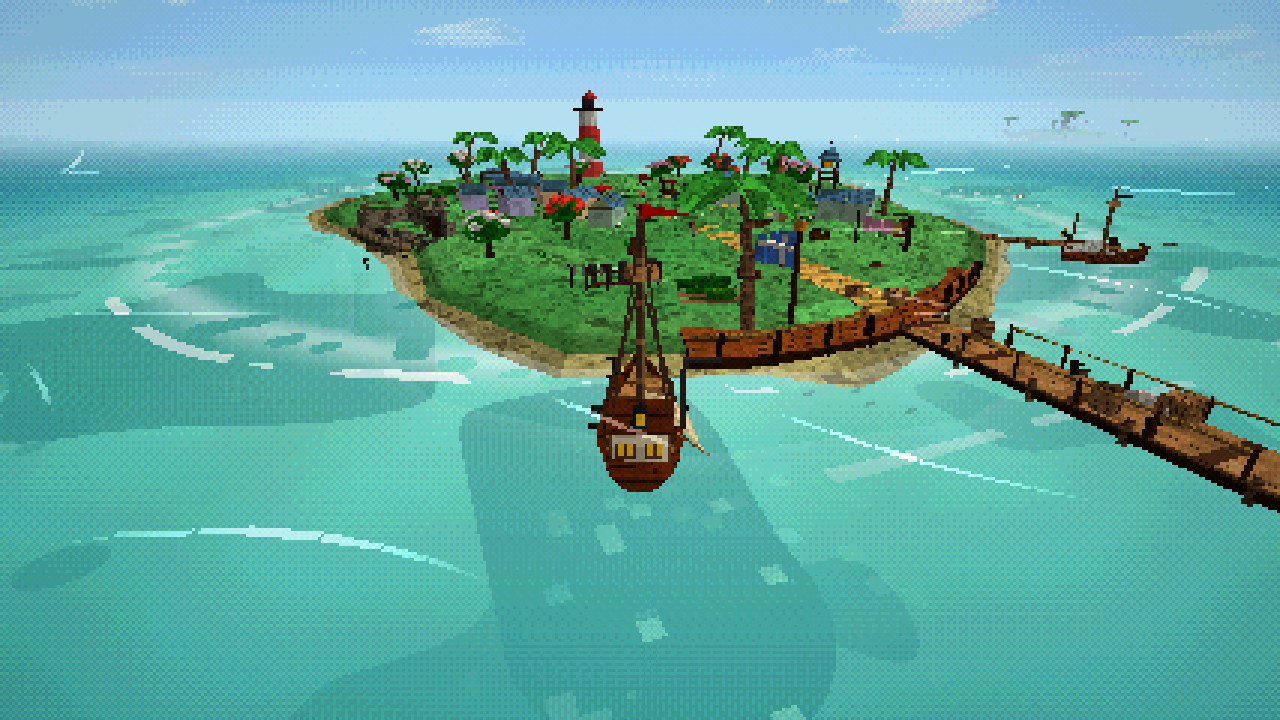
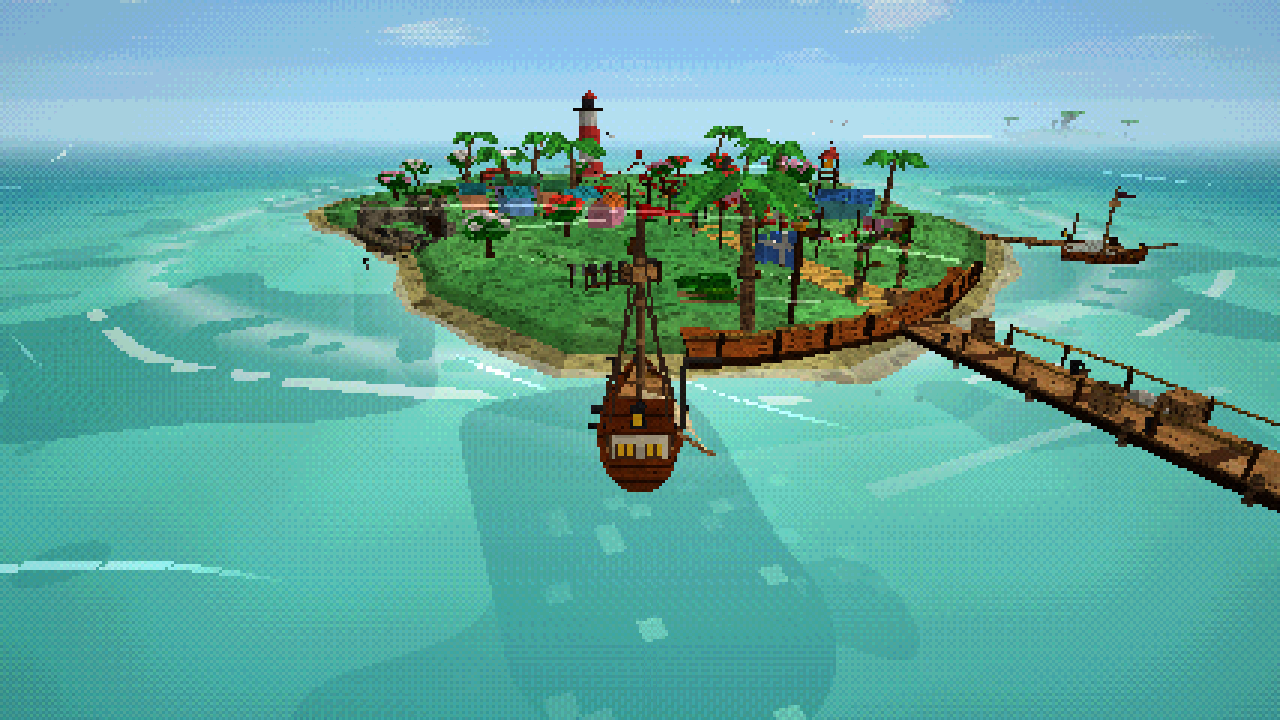
Tama: brighter chattel kit (own paints, roofs, doors, flower boxes, pots), bunting over the street and square, flower arch, more lamps
Claude-Session: https://claude.ai/code/session_01P2UrDt86h8rv7dmf7DEkc9

diff --git a/src/world.js b/src/world.js
@@ -13,7 +13,7 @@ import { dreadAtDistance } from './palette.js';
 import { makeName, makePuzzle } from './lore.js';
 import { FRUITS, fruitOf } from './fruit.js';
 import { arcIdOf, ARCS } from './harbourlife.js';
-import { harbourKit, familyHouse, familyBuilding } from './housefamilies.js';
+import { harbourKit, familyHouse, familyBuilding, tamaKit } from './housefamilies.js';
 
 import { forcedCells, shapeLandmark, cutShore, lmHeight, lmColor, lmDecor, LM_DARK } from './landmarks.js';
 export const CELL = 110;
@@ -390,7 +390,7 @@ export function palm(A, B, D, x, y, z, rng, s = 1) {
 const HOUSE_FAMILY = (() => { try { const q = typeof window !== 'undefined' && window.__BUILD !== 'full' && new URLSearchParams(location.search).get('houses'); return ['chattel', 'gable', 'bermuda', 'stilt'].includes(q) ? q : 'region'; } catch (e) { return 'region'; } })();
 const FAMILY_BUILDINGS = new Set(['tavern', 'church', 'belltower', 'warehouse']);
 const REGION_FAMILY = { home: 'chattel', free: 'chattel', crown: 'gable', lantern: 'bermuda', reef: 'stilt', drowned: 'stilt' };
-const kitFor = (d) => harbourKit(HOUSE_FAMILY === 'region' ? REGION_FAMILY[d.region] || 'chattel' : HOUSE_FAMILY, d.seed);
+const kitFor = (d) => (d.id === '0,-1' && HOUSE_FAMILY === 'region' ? tamaKit() : null) || harbourKit(HOUSE_FAMILY === 'region' ? REGION_FAMILY[d.region] || 'chattel' : HOUSE_FAMILY, d.seed);
 function familyHooks(kind) {
   return {
     bell(A, y, s = 1) {
@@ -1267,8 +1267,31 @@ function tamaPolish(S, look, houses) {
   for (const sx of [-1.38, 1.38]) for (let z = R * 1.02; z < z1 - 1; z += 2.6) { A.box(sx, 0.84, z, 0.14, 1.0, 0.14, '#6b4a2e', TILE.bark); if (z + 2.6 < z1 - 1) A.box(sx, 1.66, z + 1.3, 0.11, 0.11, 2.6, '#c8b080', TILE.rope); }
   A.pop();
   // lamps
-  const lamps = [[rP + 1.5, 1]];
-  for (const [s, side] of lamps) { const o = 1.8, x = ax * s - az * o * side, z = az * s + ax * o * side; lampPost(A, x, g(x, z) - 0.05, z, Math.atan2(-az * side, ax * side) - Math.PI / 2); }
+  const lamps = [[rP + 1.5, 1], [rP + 7, -1], [rP + 12.5, 1]].filter(([s]) => s < R * tq - 1.5);
+  for (const [s, side] of lamps) { const o = 1.8, x = ax * s - az * o * side, z = az * s + ax * o * side; if (s > rP + 2 && nearHouse(x, z, 2.2)) continue; lampPost(A, x, g(x, z) - 0.05, z, Math.atan2(-az * side, ax * side) - Math.PI / 2); }
+  { // a welcome (owner, 2026-11-28: "more colourful and welcoming... a feel-good starter town"): bunting over the street and round the square,
+    // a flower arch where the street meets the landing. The flags and blooms are the bright mood's (B): they are gone when the town goes dark.
+    const at = (s, o) => [ax * s - az * o, az * s + ax * o];
+    for (let s = rP + 3.5, k = 0; s < R * tq - 2.5; s += 5, k++) {   // strings across the street
+      const [x0, z0] = at(s, -2.5), [x1, z1] = at(s, 2.5); if (nearHouse(x0, z0, 2.0) || nearHouse(x1, z1, 2.0)) continue;
+      const y0 = g(x0, z0) - 0.05, y1 = g(x1, z1) - 0.05;
+      B.box(x0, y0, z0, 0.14, 3.6, 0.14, '#6b4a2e', TILE.bark); B.box(x1, y1, z1, 0.14, 3.6, 0.14, '#6b4a2e', TILE.bark);
+      flagLine(B, [x0, y0 + 3.5, z0], [x1, y1 + 3.5, z1], k * 2);
+    }
+    B.box(0, H - 0.2, 0, 0.2, 5.0, 0.2, '#f4f0e6', TILE.bark); B.box(0, H + 4.8, 0, 0.36, 0.36, 0.36, '#f0c030', TILE.flag);   // the square's tall pole, and a canopy of strings from it
+    for (let i = 0; i < 6; i++) {
+      const a = dockTh + Math.PI / 6 + i * Math.PI / 3, x = Math.cos(a) * (rP + 0.6), z = Math.sin(a) * (rP + 0.6);
+      if (nearHouse(x, z, 1.8)) continue;
+      B.box(x, g(x, z) - 0.05, z, 0.12, 2.9, 0.12, '#6b4a2e', TILE.bark); flagLine(B, [0, H + 4.7, 0], [x, g(x, z) + 2.8, z], i * 3);
+    }
+    { const s = R * tq - 0.8, ry = Math.PI / 2 - dockTh, [x, z] = at(s, 0), y = g(x, z) - 0.05;   // the arch: two posts, a curved top, bougainvillea
+      A.push(x, y, z, ry); for (const o of [-1.5, 1.5]) A.box(o, 0, 0, 0.22, 2.9, 0.22, '#f4f0e6', TILE.planks);
+      for (let i = 0; i < 7; i++) { const t = i / 6, ox = -1.5 + t * 3, oy = 2.9 + Math.sin(t * Math.PI) * 0.6; A.box(ox, oy, 0, 0.55, 0.16, 0.22, '#f4f0e6', TILE.planks); } A.pop();
+      B.push(x, y, z, ry);
+      for (let i = 0; i < 9; i++) { const t = i / 8, ox = -1.5 + t * 3, oy = 3.0 + Math.sin(t * Math.PI) * 0.6; B.blob(ox, oy + 0.15, 0, 0.36, 0.26, 0.3, i % 3 === 1 ? '#3f8a38' : i % 2 ? '#e8407a' : '#c83a8a', TILE.leaf, 0.25, i); }
+      for (const o of [-1.5, 1.5]) for (let j = 0; j < 3; j++) B.blob(o + (j % 2 ? 0.12 : -0.12), 0.6 + j * 0.8, 0.05, 0.26, 0.3, 0.24, j % 2 ? '#e8407a' : '#3f8a38', TILE.leaf, 0.25, j + 4);
+      B.pop(); }
+  }
   // free ground: grass tufts and flowers where nothing stands
   const free = (x, z) => Math.hypot(x, z) > rP + 1.2 && !nearHouse(x, z, 3.6) && Math.abs(angleDiff(Math.atan2(z, x), dockTh)) * Math.hypot(x, z) > 2.8;
   const tuftCols = ['#3f8a38', '#5aa844', '#4a9a40'];

diff --git a/src/housefamilies.js b/src/housefamilies.js
@@ -34,6 +34,17 @@ export function harbourKit(fam, seed) {
   const k = (Math.abs(seed) % 1000) / 1000;
   return { fam, walls: pick(P.walls, k), roof: pick(P.roofs, (k * 7.3) % 1), trim: pick(P.trims, (k * 3.1) % 1) };
 }
+/** Tama's own kit (owner, 2026-11-28: "make Tama look more colourful and welcoming... a feel-good starter town"): the brightest chattel
+ *  paints, each house its own wall and roof, white fretwork, doors in a colour of their own, flower boxes and pots (cheer) */
+export function tamaKit() {
+  return { fam: 'chattel', walls: ['#f4a0b8', '#6ad0d8', '#f8d860', '#9ae0a0', '#f8a878', '#c8a8f0', '#80b8f0'], roof: '#d8483a',
+    roofs: ['#d8483a', '#2f9aa8', '#e87a3a', '#3c78c8', '#4aa86a'], trim: '#fbf8f0', doors: ['#2f7ad0', '#d83a5a', '#f0b030', '#2a9a7a', '#8a4ac8'], cheer: true };
+}
+const BLOOMS = ['#e8407a', '#f0c030', '#f4f0e8', '#e85a3a', '#c078e0'];
+function cheer(A, K, v, x, y, z, w) {   // a flower box under a window: a painted trough and blooms
+  A.box(x, y, z, w, 0.16, 0.24, pick(K.doors || [K.trim], v(8)), TILE.planks);
+  for (let i = 0; i < 3; i++) A.blob(x + (i - 1) * w * 0.32, y + 0.2, z, 0.14, 0.11, 0.1, i === 1 ? '#4a8a38' : pick(BLOOMS, v(9 + i)), TILE.white, 0.1, i);
+}
 /** build one house of the harbour's family in the house's own frame (front +z, ground y 0); x, z its place (for its own variety) */
 export function familyHouse(A, kit, x, z, big = false) {
   const v = (s) => h01(x, z, s), wall = pick(kit.walls, v(1)), s = big ? 1.25 : 1;
@@ -41,24 +52,28 @@ export function familyHouse(A, kit, x, z, big = false) {
 }
 
 function chattel(A, K, wall, v, s) {
-  const w = 2.3 * s, d = 2.5 * s, h = 1.55 * s, base = 0.32, T = K.trim, two = v(2) < 0.5;
+  const w = 2.3 * s, d = 2.5 * s, h = 1.55 * s, base = 0.32, T = K.trim, two = v(2) < 0.5, roof = K.roofs ? pick(K.roofs, v(5)) : K.roof;
   const unit = (z0, ww, dd) => {
     A.box(0, base, z0, ww, h, dd, wall, TILE.white, TILE.white);
     for (let i = 1; i < 5; i++) A.box(0, base + i * h / 5, z0 + dd / 2 + 0.01, ww, 0.03, 0.02, shade(wall), TILE.white);   // board lines, a little darker than the paint
-    A.gable(0, base + h, z0, ww + 0.3, 1.05 * s, dd + 0.25, K.roof, TILE.roof, wall);
+    A.gable(0, base + h, z0, ww + 0.3, 1.05 * s, dd + 0.25, roof, TILE.roof, wall);
     A.box(0, base + h - 0.1, z0 + dd / 2 + 0.06, ww + 0.2, 0.12, 0.06, T, TILE.planks);   // fretwork band under the eaves
   };
   for (const [cx, cz] of [[-1, -1], [1, -1], [-1, 1], [1, 1]]) A.box(cx * (w / 2 - 0.15), 0, cz * (d / 2 - 0.15), 0.32, base, 0.32, '#8a857c', TILE.stone);   // the stone blocks
   unit(0, w, d);
   if (two) unit(-d * 0.95, w * 0.92, d * 0.9);   // a second unit behind, as the family grew
-  A.box(0, base, d / 2 + 0.02, 0.62, 1.4, 0.06, T, TILE.planks); A.box(0, base, d / 2 + 0.05, 0.5, 1.32, 0.05, '#5a3e2c', TILE.planks);   // the door, framed
+  A.box(0, base, d / 2 + 0.02, 0.62, 1.4, 0.06, T, TILE.planks); A.box(0, base, d / 2 + 0.05, 0.5, 1.32, 0.05, K.doors ? pick(K.doors, v(6)) : '#5a3e2c', TILE.planks);   // the door, framed
   const open = v(3) < 0.5;
   for (const sx of [-1, 1]) {   // jalousie shutters either side
     A.box(sx * w * 0.3, base + 0.55, d / 2 + 0.04, 0.46, 0.62, 0.05, open ? '#2a2a34' : T, TILE.planks);
     if (open) for (const o of [-1, 1]) A.box(sx * w * 0.3 + o * 0.36, base + 0.55, d / 2 + 0.08, 0.22, 0.62, 0.04, T, TILE.planks);
   }
   A.box(0, 0, d / 2 + 0.3, 0.8, base, 0.5, '#9a958a', TILE.stone);   // the steps
-  if (v(4) < 0.4) { A.push(0, base + 1.55, d / 2 + 0.3, 0, 1, 1, 1, 0.35, 0); A.box(0, 0, 0, 1.0, 0.07, 0.6, K.roof, TILE.roof); A.pop(); }   // a hood over the door
+  if (v(4) < (K.cheer ? 0.7 : 0.4)) { A.push(0, base + 1.55, d / 2 + 0.3, 0, 1, 1, 1, 0.35, 0); A.box(0, 0, 0, 1.0, 0.07, 0.6, roof, TILE.roof); A.pop(); }   // a hood over the door
+  if (K.cheer) {   // flower boxes under both windows, a pot either side of the steps
+    for (const sx of [-1, 1]) cheer(A, K, (k) => v(k + sx * 3), sx * w * 0.3, base + 0.38, d / 2 + 0.14, 0.56);
+    for (const sx of [-1, 1]) { A.cyl(sx * 0.62, 0, d / 2 + 0.45, 0.17, 0.13, 0.3, 6, '#c8643a', TILE.stone, true); A.blob(sx * 0.62, 0.42, d / 2 + 0.45, 0.22, 0.18, 0.22, '#3f8a38', TILE.leaf, 0.2, 3 + sx); A.blob(sx * 0.62 + 0.08, 0.55, d / 2 + 0.5, 0.09, 0.09, 0.09, pick(BLOOMS, v(12 + sx)), TILE.white, 0.1, 1); }
+  }
 }
 
 function gable(A, K, wall, v, s) {

diff --git a/docs/PROGRESS.md b/docs/PROGRESS.md
@@ -2837,3 +2837,11 @@ frame and wide map; moon phases and the Eye's shape (not in the summary list).
 - Not changed: the windmill, pagoda, torii, hull hall, wells, fountains, the lighthouses, and houses outside harbours (showroom,
   concepts, the wild islands' stilt huts, landmarks). The `?houses=small` trial is removed; `?houses=chattel|gable|bermuda|stilt` still
   shows one family everywhere (not in the full game). Dev: `__game.families(x, z, [fams])` lays out each family's buildings on a raft.
+
+## Tama, a feel-good starter town (2026-11-28)
+- Owner: "Make Tama look more colourful and welcoming, since it is the safe zone and first harbour". Tama keeps the chattel family but
+  with its own kit (`housefamilies.js tamaKit`): seven bright wall paints, a roof colour per house (red, teal, orange, blue, green), white
+  fretwork, doors in a colour of their own, flower boxes under the windows, a potted plant either side of the steps, more door hoods.
+- `world.js tamaPolish`: bunting strung across the street every few steps and a canopy of strings from a tall pole on the square, a
+  white flower arch with bougainvillea where the street meets the landing, two more lamp posts along the street. The flags and blooms
+  are the bright mood's (B), so they go when the town goes dark.
